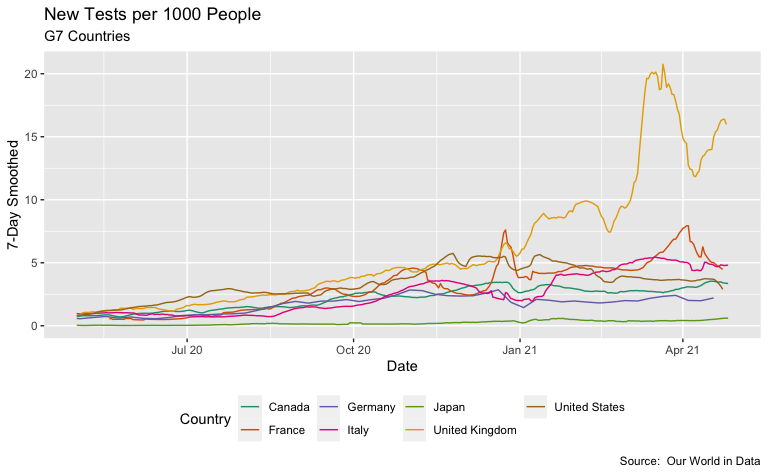
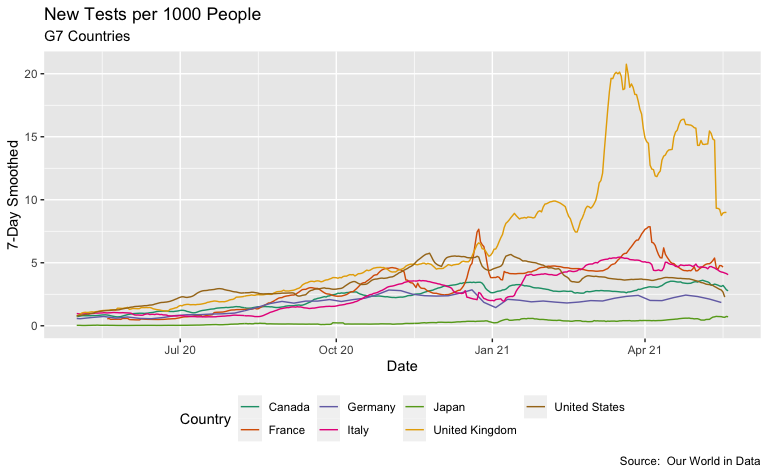
updated to 21 May 2021

diff --git a/OWID_Covid19_Data.md b/OWID_Covid19_Data.md
@@ -77,18 +77,18 @@ site*](https://covid.ourworldindata.org/).
 
 ## Example Data
 
-| iso\_code | continent     | location      | date       | total\_cases | new\_cases | new\_cases\_smoothed | total\_deaths | new\_deaths | new\_deaths\_smoothed | total\_cases\_per\_million | new\_cases\_per\_million | new\_cases\_smoothed\_per\_million | total\_deaths\_per\_million | new\_deaths\_per\_million | new\_deaths\_smoothed\_per\_million | reproduction\_rate | icu\_patients | icu\_patients\_per\_million | hosp\_patients | hosp\_patients\_per\_million | weekly\_icu\_admissions | weekly\_icu\_admissions\_per\_million | weekly\_hosp\_admissions | weekly\_hosp\_admissions\_per\_million | new\_tests | total\_tests | total\_tests\_per\_thousand | new\_tests\_per\_thousand | new\_tests\_smoothed | new\_tests\_smoothed\_per\_thousand | positive\_rate | tests\_per\_case | tests\_units    | total\_vaccinations | people\_vaccinated | people\_fully\_vaccinated | new\_vaccinations | new\_vaccinations\_smoothed | total\_vaccinations\_per\_hundred | people\_vaccinated\_per\_hundred | people\_fully\_vaccinated\_per\_hundred | new\_vaccinations\_smoothed\_per\_million | stringency\_index | population | population\_density | median\_age | aged\_65\_older | aged\_70\_older | gdp\_per\_capita | extreme\_poverty | cardiovasc\_death\_rate | diabetes\_prevalence | female\_smokers | male\_smokers | handwashing\_facilities | hospital\_beds\_per\_thousand | life\_expectancy | human\_development\_index |
-|:----------|:--------------|:--------------|:-----------|-------------:|-----------:|---------------------:|--------------:|------------:|----------------------:|---------------------------:|-------------------------:|-----------------------------------:|----------------------------:|--------------------------:|------------------------------------:|-------------------:|--------------:|----------------------------:|---------------:|-----------------------------:|------------------------:|--------------------------------------:|-------------------------:|---------------------------------------:|-----------:|-------------:|----------------------------:|--------------------------:|---------------------:|------------------------------------:|---------------:|-----------------:|:----------------|--------------------:|-------------------:|--------------------------:|------------------:|----------------------------:|----------------------------------:|---------------------------------:|----------------------------------------:|------------------------------------------:|------------------:|-----------:|--------------------:|------------:|----------------:|----------------:|-----------------:|-----------------:|------------------------:|---------------------:|----------------:|--------------:|------------------------:|------------------------------:|-----------------:|--------------------------:|
-| JPN       | Asia          | Japan         | 2020-02-03 |           20 |          0 |                2.286 |            NA |          NA |                     0 |                      0.158 |                    0.000 |                              0.018 |                          NA |                        NA |                                   0 |                 NA |            NA |                          NA |             NA |                           NA |                      NA |                                    NA |                       NA |                                     NA |         NA |           NA |                          NA |                        NA |                   NA |                                  NA |             NA |               NA |                 |                  NA |                 NA |                        NA |                NA |                          NA |                                NA |                               NA |                                      NA |                                        NA |              8.33 |  126476458 |             347.778 |        48.2 |          27.049 |          18.493 |        39002.223 |               NA |                  79.370 |                 5.72 |            11.2 |          33.7 |                      NA |                         13.05 |            84.63 |                     0.919 |
-| MYS       | Asia          | Malaysia      | 2020-02-03 |            8 |          0 |                0.571 |            NA |          NA |                     0 |                      0.247 |                    0.000 |                              0.018 |                          NA |                        NA |                                   0 |                 NA |            NA |                          NA |             NA |                           NA |                      NA |                                    NA |                       NA |                                     NA |         NA |           NA |                          NA |                        NA |                   NA |                                  NA |             NA |               NA |                 |                  NA |                 NA |                        NA |                NA |                          NA |                                NA |                               NA |                                      NA |                                        NA |             19.44 |   32365998 |              96.254 |        29.9 |           6.293 |           3.407 |        26808.164 |              0.1 |                 260.942 |                16.74 |             1.0 |          42.4 |                      NA |                          1.90 |            76.16 |                     0.810 |
-| MEX       | North America | Mexico        | 2020-02-03 |           NA |         NA |                   NA |            NA |          NA |                    NA |                         NA |                       NA |                                 NA |                          NA |                        NA |                                  NA |                 NA |            NA |                          NA |             NA |                           NA |                      NA |                                    NA |                       NA |                                     NA |        147 |         5810 |                       0.045 |                     0.001 |                  167 |                               0.001 |          0.016 |             62.5 | people tested   |                  NA |                 NA |                        NA |                NA |                          NA |                                NA |                               NA |                                      NA |                                        NA |              0.00 |  128932753 |              66.444 |        29.3 |           6.857 |           4.321 |        17336.469 |              2.5 |                 152.783 |                13.06 |             6.9 |          21.4 |                  87.847 |                          1.38 |            75.05 |                     0.779 |
-| NPL       | Asia          | Nepal         | 2020-02-03 |            1 |          0 |                0.000 |            NA |          NA |                     0 |                      0.034 |                    0.000 |                              0.000 |                          NA |                        NA |                                   0 |                 NA |            NA |                          NA |             NA |                           NA |                      NA |                                    NA |                       NA |                                     NA |         NA |           NA |                          NA |                        NA |                   NA |                                  NA |             NA |               NA | tests performed |                  NA |                 NA |                        NA |                NA |                          NA |                                NA |                               NA |                                      NA |                                        NA |             13.89 |   29136808 |             204.430 |        25.0 |           5.809 |           3.212 |         2442.804 |             15.0 |                 260.797 |                 7.26 |             9.5 |          37.8 |                  47.782 |                          0.30 |            70.78 |                     0.602 |
-| OWID\_NAM |               | North America | 2020-02-03 |           15 |          3 |                1.286 |            NA |           0 |                     0 |                      0.025 |                    0.005 |                              0.002 |                          NA |                         0 |                                   0 |                 NA |            NA |                          NA |             NA |                           NA |                      NA |                                    NA |                       NA |                                     NA |         NA |           NA |                          NA |                        NA |                   NA |                                  NA |             NA |               NA |                 |                  NA |                 NA |                        NA |                NA |                          NA |                                NA |                               NA |                                      NA |                                        NA |                NA |  592072204 |                  NA |          NA |              NA |              NA |               NA |               NA |                      NA |                   NA |              NA |            NA |                      NA |                            NA |               NA |                        NA |
-| OWID\_OCE |               | Oceania       | 2020-02-03 |           12 |          0 |                1.000 |            NA |           0 |                     0 |                      0.281 |                    0.000 |                              0.023 |                          NA |                         0 |                                   0 |                 NA |            NA |                          NA |             NA |                           NA |                      NA |                                    NA |                       NA |                                     NA |         NA |           NA |                          NA |                        NA |                   NA |                                  NA |             NA |               NA |                 |                  NA |                 NA |                        NA |                NA |                          NA |                                NA |                               NA |                                      NA |                                        NA |                NA |   42677809 |                  NA |          NA |              NA |              NA |               NA |               NA |                      NA |                   NA |              NA |            NA |                      NA |                            NA |               NA |                        NA |
-| PER       | South America | Peru          | 2020-02-03 |           NA |         NA |                   NA |            NA |          NA |                    NA |                         NA |                       NA |                                 NA |                          NA |                        NA |                                  NA |                 NA |            NA |                          NA |             NA |                           NA |                      NA |                                    NA |                       NA |                                     NA |          3 |           27 |                       0.001 |                     0.000 |                    2 |                               0.000 |          0.053 |             18.9 | tests performed |                  NA |                 NA |                        NA |                NA |                          NA |                                NA |                               NA |                                      NA |                                        NA |              0.00 |   32971846 |              25.129 |        29.1 |           7.151 |           4.455 |        12236.706 |              3.5 |                  85.755 |                 5.95 |             4.8 |            NA |                      NA |                          1.60 |            76.74 |                     0.777 |
-| PHL       | Asia          | Philippines   | 2020-02-03 |            2 |          0 |                   NA |             1 |           0 |                    NA |                      0.018 |                    0.000 |                                 NA |                       0.009 |                         0 |                                  NA |                 NA |            NA |                          NA |             NA |                           NA |                      NA |                                    NA |                       NA |                                     NA |         NA |           NA |                          NA |                        NA |                   NA |                                  NA |             NA |               NA |                 |                  NA |                 NA |                        NA |                NA |                          NA |                                NA |                               NA |                                      NA |                                        NA |             19.44 |  109581085 |             351.873 |        25.2 |           4.803 |           2.661 |         7599.188 |               NA |                 370.437 |                 7.07 |             7.8 |          40.8 |                  78.463 |                          1.00 |            71.23 |                     0.718 |
-| RUS       | Europe        | Russia        | 2020-02-03 |            2 |          0 |                   NA |            NA |          NA |                    NA |                      0.014 |                    0.000 |                                 NA |                          NA |                        NA |                                  NA |                 NA |            NA |                          NA |             NA |                           NA |                      NA |                                    NA |                       NA |                                     NA |         NA |           NA |                          NA |                        NA |                   NA |                                  NA |             NA |               NA |                 |                  NA |                 NA |                        NA |                NA |                          NA |                                NA |                               NA |                                      NA |                                        NA |              8.33 |  145934460 |               8.823 |        39.6 |          14.178 |           9.393 |        24765.954 |              0.1 |                 431.297 |                 6.18 |            23.4 |          58.3 |                      NA |                          8.05 |            72.58 |                     0.824 |
-| SGP       | Asia          | Singapore     | 2020-02-03 |           18 |          0 |                1.857 |            NA |          NA |                     0 |                      3.077 |                    0.000 |                              0.317 |                          NA |                        NA |                                   0 |                 NA |            NA |                          NA |             NA |                           NA |                      NA |                                    NA |                       NA |                                     NA |         NA |           NA |                          NA |                        NA |                   NA |                                  NA |             NA |               NA |                 |                  NA |                 NA |                        NA |                NA |                          NA |                                NA |                               NA |                                      NA |                                        NA |             25.00 |    5850343 |            7915.731 |        42.4 |          12.922 |           7.049 |        85535.383 |               NA |                  92.243 |                10.99 |             5.2 |          28.3 |                      NA |                          2.40 |            83.62 |                     0.938 |
+| iso\_code | continent     | location       | date       | total\_cases | new\_cases | new\_cases\_smoothed | total\_deaths | new\_deaths | new\_deaths\_smoothed | total\_cases\_per\_million | new\_cases\_per\_million | new\_cases\_smoothed\_per\_million | total\_deaths\_per\_million | new\_deaths\_per\_million | new\_deaths\_smoothed\_per\_million | reproduction\_rate | icu\_patients | icu\_patients\_per\_million | hosp\_patients | hosp\_patients\_per\_million | weekly\_icu\_admissions | weekly\_icu\_admissions\_per\_million | weekly\_hosp\_admissions | weekly\_hosp\_admissions\_per\_million | new\_tests | total\_tests | total\_tests\_per\_thousand | new\_tests\_per\_thousand | new\_tests\_smoothed | new\_tests\_smoothed\_per\_thousand | positive\_rate | tests\_per\_case | tests\_units    | total\_vaccinations | people\_vaccinated | people\_fully\_vaccinated | new\_vaccinations | new\_vaccinations\_smoothed | total\_vaccinations\_per\_hundred | people\_vaccinated\_per\_hundred | people\_fully\_vaccinated\_per\_hundred | new\_vaccinations\_smoothed\_per\_million | stringency\_index | population | population\_density | median\_age | aged\_65\_older | aged\_70\_older | gdp\_per\_capita | extreme\_poverty | cardiovasc\_death\_rate | diabetes\_prevalence | female\_smokers | male\_smokers | handwashing\_facilities | hospital\_beds\_per\_thousand | life\_expectancy | human\_development\_index |
+|:----------|:--------------|:---------------|:-----------|-------------:|-----------:|---------------------:|--------------:|------------:|----------------------:|---------------------------:|-------------------------:|-----------------------------------:|----------------------------:|--------------------------:|------------------------------------:|-------------------:|--------------:|----------------------------:|---------------:|-----------------------------:|------------------------:|--------------------------------------:|-------------------------:|---------------------------------------:|-----------:|-------------:|----------------------------:|--------------------------:|---------------------:|------------------------------------:|---------------:|-----------------:|:----------------|--------------------:|-------------------:|--------------------------:|------------------:|----------------------------:|----------------------------------:|---------------------------------:|----------------------------------------:|------------------------------------------:|------------------:|-----------:|--------------------:|------------:|----------------:|----------------:|-----------------:|-----------------:|------------------------:|---------------------:|----------------:|--------------:|------------------------:|------------------------------:|-----------------:|--------------------------:|
+| KHM       | Asia          | Cambodia       | 2020-02-03 |            1 |          0 |                0.000 |            NA |          NA |                     0 |                      0.060 |                    0.000 |                              0.000 |                          NA |                        NA |                               0.000 |                 NA |            NA |                          NA |             NA |                           NA |                      NA |                                    NA |                       NA |                                     NA |         NA |           NA |                          NA |                        NA |                   NA |                                  NA |             NA |               NA |                 |                  NA |                 NA |                        NA |                NA |                          NA |                                NA |                               NA |                                      NA |                                        NA |              0.00 |   16718971 |              90.672 |        25.6 |           4.412 |           2.385 |         3645.070 |               NA |                 270.892 |                 4.00 |             2.0 |          33.7 |                  66.229 |                          0.80 |            69.82 |                     0.594 |
+| CAN       | North America | Canada         | 2020-02-03 |            4 |          0 |                0.429 |            NA |          NA |                     0 |                      0.106 |                    0.000 |                              0.011 |                          NA |                        NA |                               0.000 |                 NA |            NA |                          NA |             NA |                           NA |                      NA |                                    NA |                       NA |                                     NA |         NA |           NA |                          NA |                        NA |                   NA |                                  NA |             NA |               NA | tests performed |                  NA |                 NA |                        NA |                NA |                          NA |                                NA |                               NA |                                      NA |                                        NA |              2.78 |   37742157 |               4.037 |        41.4 |          16.984 |          10.797 |        44017.591 |              0.5 |                 105.599 |                 7.37 |            12.0 |          16.6 |                      NA |                          2.50 |            82.43 |                     0.929 |
+| CHN       | Asia          | China          | 2020-02-03 |        19701 |       3086 |             2404.571 |           425 |          64 |                    49 |                     13.688 |                    2.144 |                              1.671 |                       0.295 |                     0.044 |                               0.034 |               2.35 |            NA |                          NA |             NA |                           NA |                      NA |                                    NA |                       NA |                                     NA |         NA |           NA |                          NA |                        NA |                   NA |                                  NA |             NA |               NA |                 |                  NA |                 NA |                        NA |                NA |                          NA |                                NA |                               NA |                                      NA |                                        NA |             77.31 | 1439323774 |             147.674 |        38.7 |          10.641 |           5.929 |        15308.712 |              0.7 |                 261.899 |                 9.74 |             1.9 |          48.4 |                      NA |                          4.34 |            76.91 |                     0.761 |
+| DNK       | Europe        | Denmark        | 2020-02-03 |           NA |         NA |                   NA |            NA |          NA |                    NA |                         NA |                       NA |                                 NA |                          NA |                        NA |                                  NA |                 NA |            NA |                          NA |             NA |                           NA |                      NA |                                    NA |                       NA |                                     NA |         NA |           NA |                          NA |                        NA |                   NA |                                  NA |             NA |               NA | tests performed |                  NA |                 NA |                        NA |                NA |                          NA |                                NA |                               NA |                                      NA |                                        NA |              0.00 |    5792203 |             136.520 |        42.3 |          19.677 |          12.325 |        46682.515 |              0.2 |                 114.767 |                 6.41 |            19.3 |          18.8 |                      NA |                          2.50 |            80.90 |                     0.940 |
+| OWID\_EUR |               | Europe         | 2020-02-03 |           33 |          8 |                4.143 |            NA |           0 |                     0 |                      0.044 |                    0.011 |                              0.006 |                          NA |                     0.000 |                               0.000 |                 NA |            NA |                          NA |             NA |                           NA |                      NA |                                    NA |                       NA |                                     NA |         NA |           NA |                          NA |                        NA |                   NA |                                  NA |             NA |               NA |                 |                  NA |                 NA |                        NA |                NA |                          NA |                                NA |                               NA |                                      NA |                                        NA |                NA |  748680069 |                  NA |          NA |              NA |              NA |               NA |               NA |                      NA |                   NA |              NA |            NA |                      NA |                            NA |               NA |                        NA |
+| OWID\_EUN |               | European Union | 2020-02-03 |           23 |          2 |                2.714 |            NA |           0 |                     0 |                      0.052 |                    0.004 |                              0.006 |                          NA |                     0.000 |                               0.000 |                 NA |            NA |                          NA |             NA |                           NA |                      NA |                                    NA |                       NA |                                     NA |         NA |           NA |                          NA |                        NA |                   NA |                                  NA |             NA |               NA |                 |                  NA |                 NA |                        NA |                NA |                          NA |                                NA |                               NA |                                      NA |                                        NA |                NA |  444919060 |                  NA |          NA |              NA |              NA |               NA |               NA |                      NA |                   NA |              NA |            NA |                      NA |                            NA |               NA |                        NA |
+| FJI       | Oceania       | Fiji           | 2020-02-03 |           NA |         NA |                   NA |            NA |          NA |                    NA |                         NA |                       NA |                                 NA |                          NA |                        NA |                                  NA |                 NA |            NA |                          NA |             NA |                           NA |                      NA |                                    NA |                       NA |                                     NA |         NA |           NA |                          NA |                        NA |                   NA |                                  NA |             NA |               NA | tests performed |                  NA |                 NA |                        NA |                NA |                          NA |                                NA |                               NA |                                      NA |                                        NA |             19.44 |     896444 |              49.562 |        28.6 |           6.224 |           3.284 |         8702.975 |              1.4 |                 412.820 |                14.49 |            10.2 |          34.8 |                      NA |                          2.30 |            67.44 |                     0.743 |
+| FIN       | Europe        | Finland        | 2020-02-03 |            1 |          0 |                0.143 |            NA |          NA |                     0 |                      0.180 |                    0.000 |                              0.026 |                          NA |                        NA |                               0.000 |                 NA |            NA |                          NA |             NA |                           NA |                      NA |                                    NA |                       NA |                                     NA |         NA |           NA |                          NA |                        NA |                   NA |                                  NA |             NA |               NA |                 |                  NA |                 NA |                        NA |                NA |                          NA |                                NA |                               NA |                                      NA |                                        NA |              5.56 |    5540718 |              18.136 |        42.8 |          21.228 |          13.264 |        40585.721 |               NA |                 153.507 |                 5.76 |            18.3 |          22.6 |                      NA |                          3.28 |            81.91 |                     0.938 |
+| FRA       | Europe        | France         | 2020-02-03 |            6 |          0 |                0.429 |            NA |          NA |                     0 |                      0.089 |                    0.000 |                              0.006 |                          NA |                        NA |                               0.000 |                 NA |             1 |                       0.015 |              6 |                        0.089 |                      NA |                                    NA |                       NA |                                     NA |         NA |           NA |                          NA |                        NA |                   NA |                                  NA |             NA |               NA |                 |                  NA |                 NA |                        NA |                NA |                          NA |                                NA |                               NA |                                      NA |                                        NA |              5.56 |   67564251 |             122.578 |        42.0 |          19.718 |          13.079 |        38605.671 |               NA |                  86.060 |                 4.77 |            30.1 |          35.6 |                      NA |                          5.98 |            82.66 |                     0.901 |
+| DEU       | Europe        | Germany        | 2020-02-03 |           12 |          2 |                1.571 |            NA |          NA |                     0 |                      0.143 |                    0.024 |                              0.019 |                          NA |                        NA |                               0.000 |                 NA |            NA |                          NA |             NA |                           NA |                      NA |                                    NA |                       NA |                                     NA |         NA |           NA |                          NA |                        NA |                   NA |                                  NA |             NA |               NA |                 |                  NA |                 NA |                        NA |                NA |                          NA |                                NA |                               NA |                                      NA |                                        NA |              5.56 |   83783945 |             237.016 |        46.6 |          21.453 |          15.957 |        45229.245 |               NA |                 156.139 |                 8.31 |            28.2 |          33.1 |                      NA |                          8.00 |            81.33 |                     0.947 |
 
 ## Exploratory Data Analyses
 
@@ -108,27 +108,27 @@ site*](https://covid.ourworldindata.org/).
 
 #### Countries with Highest Change in Cases Over the Past Month
 
-| location    | date       | cases\_change |
-|:------------|:-----------|--------------:|
-| Thailand    | 2021-04-25 |          1.94 |
-| Yemen       | 2021-04-25 |          1.57 |
-| Turkey      | 2021-04-25 |          1.47 |
-| India       | 2021-04-25 |          1.45 |
-| Philippines | 2021-04-25 |          1.42 |
-| Iran        | 2021-04-25 |          1.30 |
+| location | date       | cases\_change |
+|:---------|:-----------|--------------:|
+| Thailand | 2021-05-19 |          2.67 |
+| Vietnam  | 2021-05-19 |          1.69 |
+| India    | 2021-05-19 |          1.68 |
+| Nepal    | 2021-05-19 |          1.68 |
+| Japan    | 2021-05-19 |          1.30 |
+| Malaysia | 2021-05-19 |          1.29 |
 
 <img src="OWID_Covid19_Data_files/figure-gfm/problem_areas_cases-1.png" width="90%" style="display: block; margin: auto;" />
 
 #### Countries with Highest Change in Deaths Over the Past Month
 
-| location    | date       | deaths\_change |
-|:------------|:-----------|---------------:|
-| Thailand    | 2021-04-25 |       1.521739 |
-| Yemen       | 2021-04-25 |       1.447561 |
-| Ukraine     | 2021-04-25 |       1.334251 |
-| Venezuela   | 2021-04-25 |       1.326636 |
-| Ethiopia    | 2021-04-25 |       1.282412 |
-| Philippines | 2021-04-25 |       1.276371 |
+| location  | date       | deaths\_change |
+|:----------|:-----------|---------------:|
+| Thailand  | 2021-05-19 |       6.519231 |
+| Nepal     | 2021-05-19 |       1.830152 |
+| India     | 2021-05-19 |       1.590439 |
+| Malaysia  | 2021-05-19 |       1.471861 |
+| Venezuela | 2021-05-19 |       1.270649 |
+| Turkey    | 2021-05-19 |       1.252351 |
 
 <img src="OWID_Covid19_Data_files/figure-gfm/problem_areas_deaths-1.png" width="90%" style="display: block; margin: auto;" />
 
